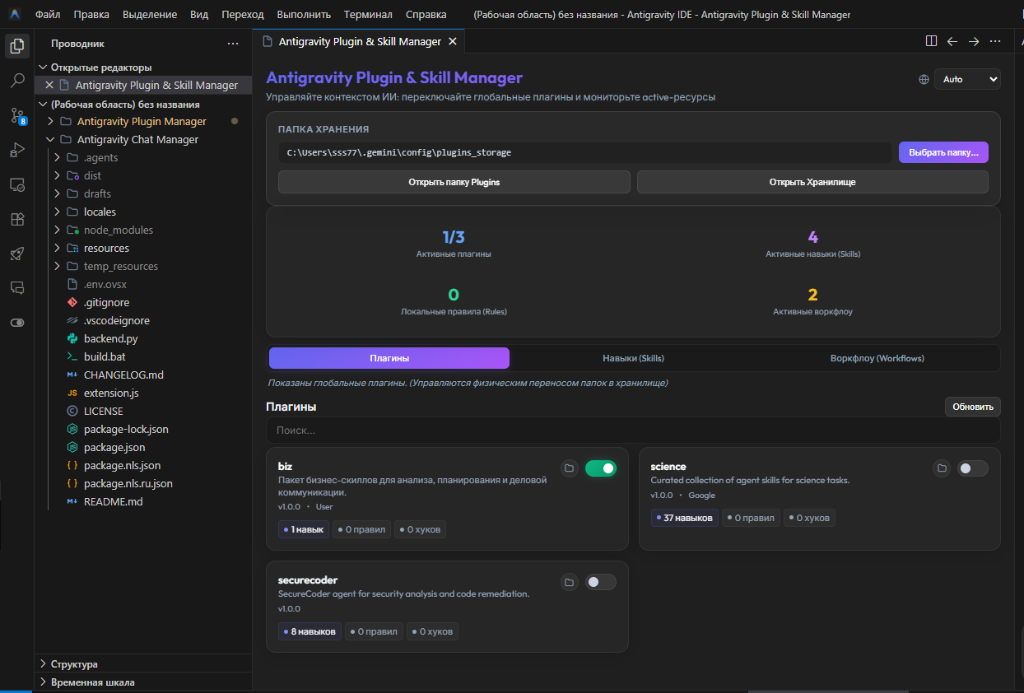
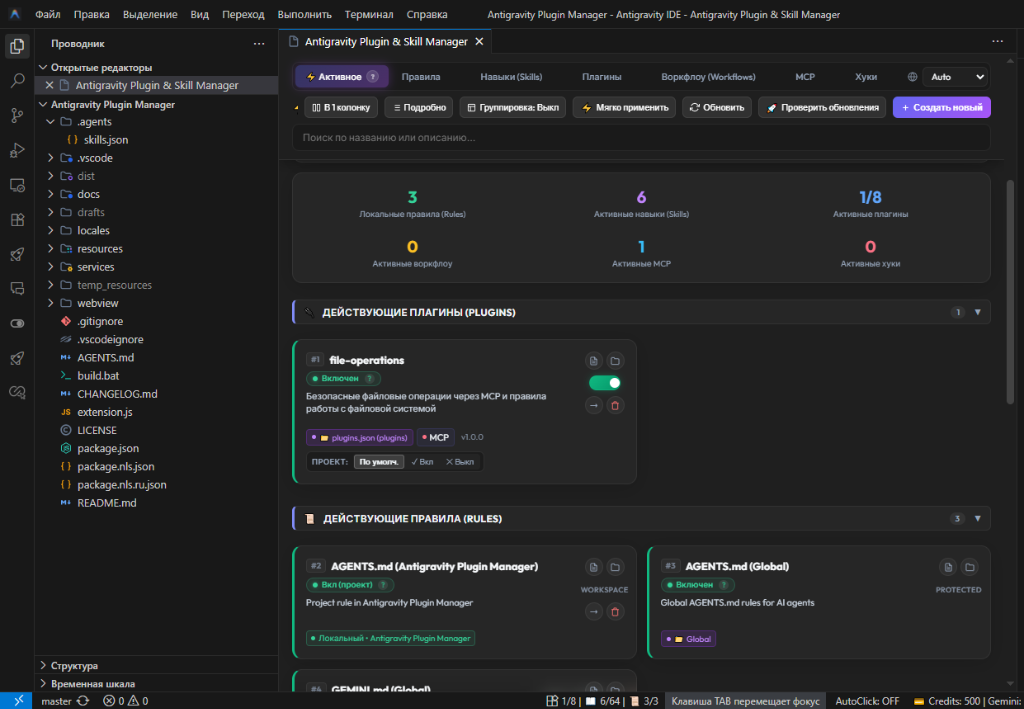
release - v1.2.18: update screenshots in readme

diff --git a/README.md b/README.md
@@ -46,6 +46,8 @@
 * 🔄 **Обновление плагинов из GitHub:** проверяет наличие новых версий в репозиториях авторов и обновляет плагины в один клик с наглядным выводом процесса.
 * 👁 **Инспектор контекста (Live Context):** считывает сессии Antigravity и показывает, какие именно инструкции фактически ушли в системный промпт в последнем сообщении.
 
+![Каталог навыков и переопределения для проектов](resources/screenshot-skills.png)
+
 ---
 
 ### Как это работает: нативная конфигурация без поломки Git
@@ -129,6 +131,8 @@ Antigravity does not provide a built-in UI for managing customizations. In pract
 * 📁 **Instant File & Folder Access:** Open `SKILL.md`, `GEMINI.md`, or `plugin.json` in the editor with one click, or jump directly to plugin folders in File Explorer.
 * 🔄 **GitHub 1-Click Updates:** Checks author repositories for newer plugin versions and updates them in one click with a transparent process log.
 * 👁 **Live Context Inspector:** Inspects active IDE conversation records to reveal the exact instructions delivered to the model in the latest message turn.
+
+![Skills Catalog & Project Overrides](resources/screenshot-skills.png)
 
 ---
 

diff --git a/CHANGELOG.md b/CHANGELOG.md
@@ -1,5 +1,15 @@
 # История изменений / Changelog
 
+## 1.2.18
+
+### Русский
+* **Актуальные скриншоты интерфейса в README и документации:**
+  - Обновлены ключевые скриншоты расширения в каталоге `resources/`: добавлен реальный вид дашборда «Активное» и вкладки «Навыки (Skills)» с наглядной демонстрацией изумрудных полос активности, приглушенных тумблеров и независимых проектных переопределений.
+
+### English
+* **Updated UI Screenshots in README & Documentation:**
+  - Refreshed primary screenshots in `resources/` showcasing the Active Context Dashboard and Skills catalog with high-contrast emerald accent stripes, project overrides, and clean toggle states.
+
 ## 1.2.17
 
 ### Русский
